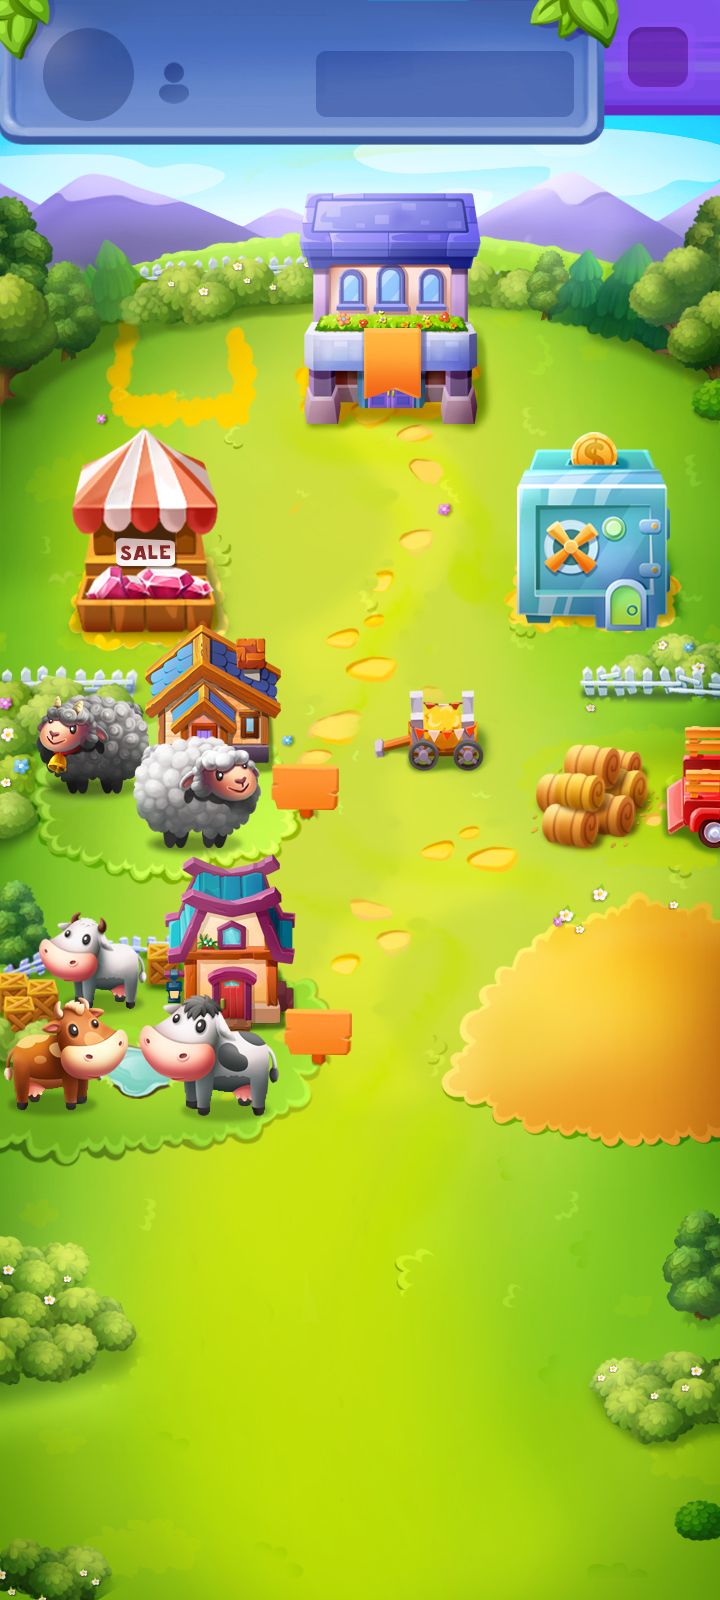
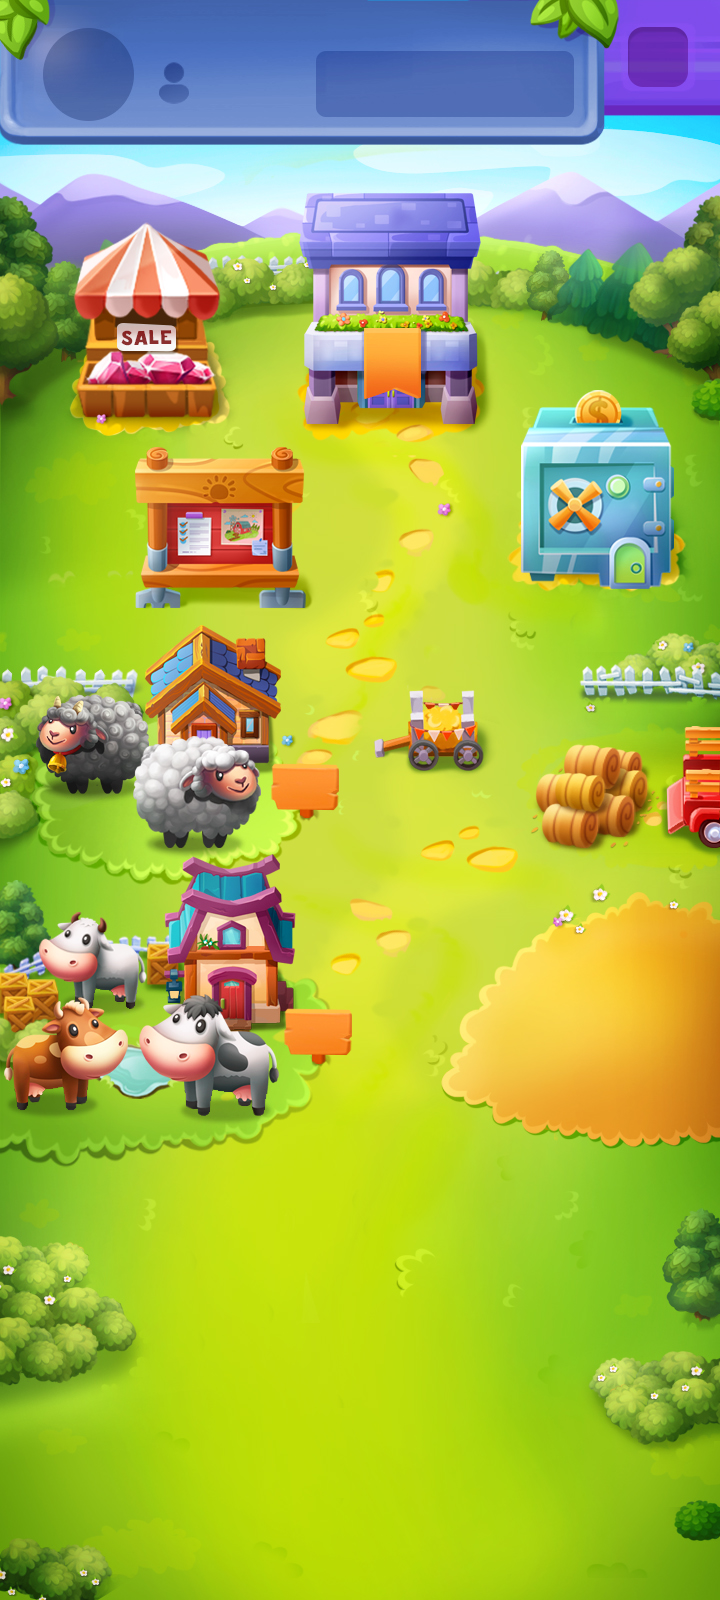
add clan flag pole

diff --git a/src/scripts/scenes/ClanFarm.ts b/src/scripts/scenes/ClanFarm.ts
@@ -2,6 +2,7 @@ import LogoManager, { Icon } from "../components/Utils/LogoManager";
 import { shortNum } from "../general/basic";
 import { click, clickButton, clickModalBtn } from "../general/clicks";
 import ClanCooldownBuilding from './../components/clan/ClanCooldownBuilding';
+import ClanFlagPole from './../components/clan/ClanFlagPole';
 
 const clanMap: string = require('../../assets/images/clan/map.jpg');
 const clanChickenFarm: string = require('../../assets/images/clan/chicken-farm.png');
@@ -31,6 +32,7 @@ export default class ClanFarm extends Phaser.Scene {
   private chickenCountText: Phaser.GameObjects.Text;
   private cowCountText: Phaser.GameObjects.Text;
   private playerCountText: Phaser.GameObjects.Text;
+  private currentIcon: IconfigIcon;
 
   constructor() {
     super('ClanFarm');
@@ -95,7 +97,8 @@ export default class ClanFarm extends Phaser.Scene {
       x: 70,
       y: 65,
     };
-    this.icon = LogoManager.createIcon(this, pos.x + 15, pos.y + 7, this.state.clan.avatar).setScale(0.439);
+    this.currentIcon = this.state.clan.avatar;
+    this.icon = LogoManager.createIcon(this, pos.x + 15, pos.y + 7, this.currentIcon).setScale(0.439);
 
     this.nameText = this.add.text(pos.x + 260, pos.y - 40, this.state.clan.name, textStyle).setOrigin(0.5);
     if (this.nameText.displayWidth > 380) {
@@ -126,9 +129,10 @@ export default class ClanFarm extends Phaser.Scene {
       x: 390,
       y: 300,
     };
-    const zone = this.add.zone(pos.x, pos.y, 200, 240).setDropZone(undefined, () => {});
+    const zone = this.add.zone(pos.x, pos.y, 200, 260).setDropZone(undefined, () => {});
     const textLevel: string = this.state.clan.main.cooldown > 0 ? String(this.state.clan.main.level - 1) : String(this.state.clan.main.level);
     this.clanLevelText = this.add.text(pos.x + 4, pos.y + 60, textLevel, levelTextStyle).setOrigin(0.5);
+    new ClanFlagPole(this, {x: pos.x + 5, y: pos.y - 110}).setDepth(2);
     // const graphics: Phaser.GameObjects.Graphics = this.add.graphics();
     // graphics.lineStyle(5, 0xFFFF00);
     // graphics.strokeRect(
@@ -150,7 +154,7 @@ export default class ClanFarm extends Phaser.Scene {
   private createBank(): void {
     const pos: Iposition = {
       x: 595,
-      y: 520,
+      y: 490,
     };
     const zone = this.add.zone(pos.x, pos.y, 160, 200).setDropZone(undefined, () => {});
 
@@ -175,7 +179,7 @@ export default class ClanFarm extends Phaser.Scene {
   private createShop(): void {
     const pos: Iposition = {
       x: 145,
-      y: 530,
+      y: 320,
     };
     const zone = this.add.zone(pos.x, pos.y, 155, 210).setDropZone(undefined, () => {});
 
@@ -199,10 +203,10 @@ export default class ClanFarm extends Phaser.Scene {
 
   private createClanTask(): void {
     const pos: Iposition = {
-      x: 180,
-      y: 320
+      x: 220,
+      y: 530
     };
-    const zone = this.add.zone(pos.x, pos.y, 150, 210).setDropZone(undefined, () => {});
+    const zone = this.add.zone(pos.x, pos.y, 180, 180).setDropZone(undefined, () => {});
 
     // const graphics: Phaser.GameObjects.Graphics = this.add.graphics();
     // graphics.lineStyle(5, 0x00FF00);
@@ -234,6 +238,8 @@ export default class ClanFarm extends Phaser.Scene {
     // const graphics: Phaser.GameObjects.Graphics = this.add.graphics();
     // graphics.lineStyle(5, 0xFaaf00);
     // graphics.strokeRect(zone.x - zone.input.hitArea.width / 2, zone.y - zone.input.hitArea.height / 2, zone.input.hitArea.width, zone.input.hitArea.height);
+    new ClanFlagPole(this, { x: farmPosition.x + 59, y: farmPosition.y - 130 }).setDepth(2);
+
     this.click(zone, () => {
       if (this.state.clan.sheep.cooldown <= 0) {
         this.state.modal = {
@@ -257,6 +263,7 @@ export default class ClanFarm extends Phaser.Scene {
     const sprite = this.add.sprite(farmPosition.x, farmPosition.y, 'clan-chicken-farm');
     const textLevel: string = this.state.clan.chicken.cooldown > 0 ? String(this.state.clan.chicken.level - 1) : String(this.state.clan.chicken.level);
     this.chickenLevelText = this.add.text(farmPosition.x - 106, farmPosition.y + 20, textLevel, levelTextStyle).setOrigin(0.5);
+    new ClanFlagPole(this, { x: farmPosition.x + 2, y: farmPosition.y - 160 }).setDepth(2);
     this.click(sprite, () => {
       if (this.state.clan.chicken.cooldown <= 0) {
         this.state.modal = {
@@ -282,6 +289,8 @@ export default class ClanFarm extends Phaser.Scene {
     
     const textLevel: string = this.state.clan.cow.cooldown > 0 ? String(this.state.clan.cow.level - 1) : String(this.state.clan.cow.level);
     this.cowLevelText = this.add.text(farmPosition.x + 167, farmPosition.y + 32, textLevel, levelTextStyle).setOrigin(0.5);
+    new ClanFlagPole(this, { x: farmPosition.x + 88, y: farmPosition.y - 140 }).setDepth(2);
+
     const zone: Phaser.GameObjects.Zone = this.add.zone(farmPosition.x, farmPosition.y, width, height).setDropZone(undefined, () => {});
     // const graphics: Phaser.GameObjects.Graphics = this.add.graphics();
     // graphics.lineStyle(5, 0xFaccdd);
@@ -330,6 +339,7 @@ export default class ClanFarm extends Phaser.Scene {
     this.updateCountsText();
     this.updatePlayerCount();
     this.updateClanName();
+    this.updateClanIcon();
   }
 
   private updateCountsText(): void {
@@ -405,6 +415,18 @@ export default class ClanFarm extends Phaser.Scene {
         const multiply: number = this.nameText.displayWidth / 380;
         this.nameText.setFontSize(parseInt(this.nameText.style.fontSize) / multiply);
       }
+    }
+  }
+
+  private updateClanIcon(): void {
+    if (JSON.stringify(this.currentIcon) !== JSON.stringify(this.state.clan.avatar)) {
+      this.currentIcon = this.state.clan.avatar;
+      this.icon.destroy();
+      const pos: Iposition = {
+        x: 85,
+        y: 72,
+      };
+      this.icon = LogoManager.createIcon(this, pos.x, pos.y, this.currentIcon).setScale(0.439);
     }
   }
 };

diff --git a/src/scripts/scenes/Profile.ts b/src/scripts/scenes/Profile.ts
@@ -3,6 +3,7 @@ import { shortNum, getEventRaiting, shortTime, loadingModal, getStatusSettings }
 import { scoreEnding } from './Event/Unicorns/basic';
 import Currency from '../components/animations/Currency';
 import Notificator from './../components/gameObjects/Notificator';
+import ClanFlagPole from './../components/clan/ClanFlagPole';
 
 const background: string = require('./../../assets/images/profile/background.jpg');
 const chickenFarm: string = require('./../../assets/images/profile/chicken-farm.png');
@@ -18,6 +19,7 @@ const fortune: string = require('./../../assets/images/profile/event-fortune.png
 const socialBtnVk: string = require('./../../assets/images/profile/social-btn-vk.png');
 const socialBtnOk: string = require('./../../assets/images/profile/social-btn-ok.png');
 const closeWindowBtn: string = require('../../assets/images/modal/close-window-btn.png');
+const clanFlagpole: string = require('../../assets/images/clan/flagpole.png');
 
 const progressTextStyle: Phaser.Types.GameObjects.Text.TextStyle = {
   fontFamily: 'Shadow',
@@ -95,6 +97,7 @@ class Profile extends Phaser.Scene {
     this.load.image('profile-social-btn-vk', socialBtnVk);
     this.load.image('profile-social-btn-ok', socialBtnOk);
     this.load.image('close-window-btn', closeWindowBtn);
+    this.load.image('clan-flagpole', clanFlagpole);
   }
 
 
@@ -634,14 +637,16 @@ class Profile extends Phaser.Scene {
     };
     const size: Isize = {
       width: 150,
-      height: 210
+      height: 230
     };
     const zone: Phaser.GameObjects.Zone = this.add.zone(pos.x, pos.y, size.width, size.height).setDepth(1).setDropZone(undefined, () => {});
       
     // const graphics: Phaser.GameObjects.Graphics = this.add.graphics();
     // graphics.lineStyle(5, 0xFFFF00);
     // graphics.strokeRect(zone.x - zone.input.hitArea.width / 2, zone.y - zone.input.hitArea.height / 2, zone.input.hitArea.width, zone.input.hitArea.height);
-
+    if (this.state.clan) {
+      new ClanFlagPole(this, { x: pos.x + 5, y: pos.y - 100 }).setDepth(2);
+    }
     this.click(zone, (): void => {
       if (this.state.userSheep.part >= 7 && this.checkAuthUser()) {
         if (!this.state.user.clanId) {

diff --git a/src/scripts/components/clan/ClanFlagPole.ts b/src/scripts/components/clan/ClanFlagPole.ts
@@ -1,0 +1,48 @@
+import Profile from '../../scenes/Profile';
+import ClanFarm from '../../scenes/ClanFarm';
+import LogoManager from '../Utils/LogoManager';
+
+export default class ClanFlagPole extends Phaser.GameObjects.Sprite {
+  public scene: Profile | ClanFarm;
+  private flagPosition: Iposition;
+  private flag: Phaser.GameObjects.Sprite;
+  private avatar: IconfigIcon;
+
+  constructor(scene: Profile | ClanFarm, pos: Iposition) {
+    super(scene, pos.x, pos.y, 'clan-flagpole');
+    this.scene = scene;
+    this.init();
+    this.create();
+  }
+  
+  private init(): void {
+    this.avatar = this.scene.state.clan.avatar;
+    this.flagPosition = {
+      x: this.x + 20, 
+      y: this.y - 17,
+    };
+  }
+
+  private create(): void {
+    this.scene.add.existing(this);
+    this.flag = LogoManager.createFlag(this.scene, this.flagPosition.x, this.flagPosition.y, this.avatar).setScale(0.17);
+  }
+
+  public preUpdate(): void {
+    if (JSON.stringify(this.avatar) !== JSON.stringify(this.scene.state.clan.avatar)) {
+      this.updateFlag();
+    }
+  }
+
+  private updateFlag(): void {
+    this.avatar = this.scene.state.clan.avatar;
+    this.flag.destroy();
+    this.flag = LogoManager.createFlag(this.scene, this.flagPosition.x, this.flagPosition.y, this.avatar).setScale(0.17);
+  }
+
+  public setDepth(value: number): this {
+    super.setDepth(value);
+    this.flag?.setDepth(value - 1);
+    return this;
+  }
+}

diff --git a/src/scripts/langs.ts b/src/scripts/langs.ts
@@ -992,8 +992,8 @@ export default {
     clanTreasury: 'Казна клана',
     nowInTreasury: 'В казне:',
     players: 'Игроков: ',
-    improveClan: 'Улучшить клан',
-    clanImprovement: 'Улучшение клана',
+    improveClan: 'Улучшить штаб',
+    clanImprovement: 'Улучшение штаба',
     sheepClanFarm: 'Клановая ферма овец',
     chickenClanFarm: 'Клановая ферма кур',
     cowClanFarm: 'Клановая ферма коров',
@@ -2015,8 +2015,8 @@ export default {
     clanTreasury: 'Казна клана',
     nowInTreasury: 'В казне:',
     players: 'Игроков: ',
-    improveClan: 'Улучшить клан',
-    clanImprovement: 'Улучшение клана',
+    improveClan: 'Улучшить штаб',
+    clanImprovement: 'Улучшение штаба',
     sheepClanFarm: 'Клановая ферма овец',
     chickenClanFarm: 'Клановая ферма кур',
     cowClanFarm: 'Клановая ферма коров',
